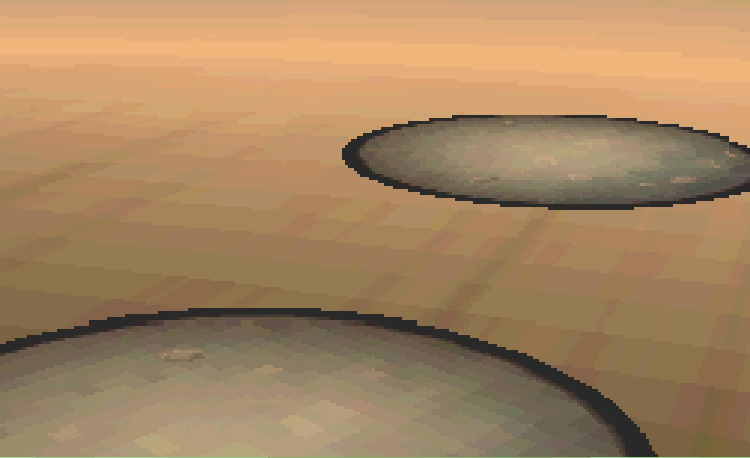
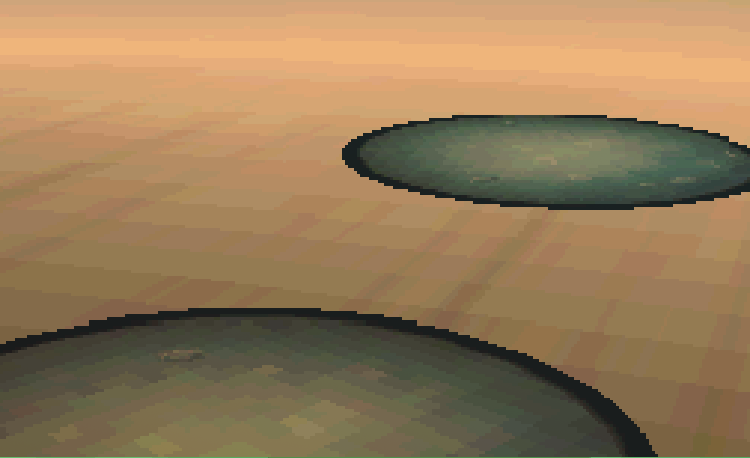
Character positions, context-specific pokemon, and dummy end screen

Changed region(s): [[0.0, 0.6725, 0.8587, 1.0], [0.46, 0.2445, 1.0, 0.4585]]

diff --git a/public/scripts/testreact.js b/public/scripts/testreact.js
@@ -28,21 +28,45 @@ var Map = React.createClass({
       this.props.changeState();
     }
     else if(event.key == "w"){
-      if(y!=0 && this.returnTile(x,y-1) != 'blue' && this.returnTile(x,y-1) != 'royalblue'){this.props.setY(y-1);}
+      this.props.setPosition("up");
+      if(y!=0 && this.returnTile(x,y-1) != 'blue' && this.returnTile(x,y-1) != 'royalblue'){
+        this.props.changeTile(this.returnTile(x, y-1));
+        this.props.setNearOcean(this.nearOcean(x, y-1));
+        this.props.setY(y-1);
+      }
     }
     else if(event.key == "s"){
-      if(y!=17 && this.returnTile(x,y+1) != 'blue' && this.returnTile(x,y+1) != 'royalblue'){this.props.setY(y+1);}
+      this.props.setPosition("down");
+      if(y!=17 && this.returnTile(x,y+1) != 'blue' && this.returnTile(x,y+1) != 'royalblue'){
+        this.props.changeTile(this.returnTile(x, y+1));
+        this.props.setNearOcean(this.nearOcean(x, y+1));
+        this.props.setY(y+1);
+      }
     }
     else if(event.key == "a"){
-      if(x!=0 && this.returnTile(x-1,y) != 'blue' && this.returnTile(x-1,y) != 'royalblue'){this.props.setX(x-1);}
+      this.props.setPosition("left");
+      if(x!=0 && this.returnTile(x-1,y) != 'blue' && this.returnTile(x-1,y) != 'royalblue'){
+        this.props.changeTile(this.returnTile(x-1,y));
+        this.props.setNearOcean(this.nearOcean(x-1,y));
+        this.props.setX(x-1);
+      }
     }
     else if(event.key == "d"){
-      if(x!=23 && this.returnTile(x+1,y) != 'blue' && this.returnTile(x+1,y) != 'royalblue'){this.props.setX(x+1);}
+      this.props.setPosition("right");
+      if(x!=23 && this.returnTile(x+1,y) != 'blue' && this.returnTile(x+1,y) != 'royalblue'){
+        this.props.changeTile(this.returnTile(x+1,y));
+        this.props.setNearOcean(this.nearOcean(x+1,y));
+        this.props.setX(x+1);
+      }
     }
   },
 
   componentDidMount(){
     this.refs.toHaveFocus.focus();
+  },
+
+  redname: function() {
+    return "pictures/red" + this.props.getPosition() + ".png";
   },
 
   render: function() {
@@ -53,9 +77,8 @@ var Map = React.createClass({
       var columns = [];
       for(var j=0; j < this.width; j++) {
         var classstring = "row" + i + " column" + j;
-        var classcolor = "";
         if(this.props.getY()==i && this.props.getX()==j) {
-          columns.push(<td className={classstring} style={{backgroundColor:this.returnTile(j, i)}}><img src="pictures/redow.png"/></td>);
+          columns.push(<td className={classstring} style={{backgroundColor:this.returnTile(j, i)}}><img src={this.redname()}/></td>);
         }
         else {
           columns.push(<td className={classstring} style={{backgroundColor:this.returnTile(j, i)}}></td>);
@@ -92,9 +115,9 @@ var Map = React.createClass({
 
   nearOcean: function(x, y) {
     if (x>=3 && x<=10 || x>6 && (x+15-y) < 2 || y > this.height-6 && x >= 2 && x < (Math.round(this.width/3)*2 + y - Math.round(this.width/2)) + 5) {
-      return true;
+      return 1;
     }
-    return false;
+    return 0;
   }
 
 });
@@ -110,7 +133,8 @@ var BattleBoy = React.createClass({
 
   componentWillMount: function() {
     const a = this;
-    axios.get('/api/generate').then(function(value){
+    var apicall = '/api/generate/' + this.props.getTile() + '/' + this.props.getNearOcean();
+    axios.get(apicall).then(function(value){
       a.setState({
         pokemon: value.data.name,
         rarity: value.data.rarity
@@ -133,7 +157,8 @@ var BattleBoy = React.createClass({
   },
 
   render: function() {
-    return(<table className="game" style={{backgroundImage:'url(pictures/backgroundboy.png)'}}>
+    var backgroundstring = 'url(pictures/' + this.props.getTile() + ".png)"
+    return(<table className="game" style={{backgroundImage:backgroundstring}}>
       <tr>
         <td>
         </td>
@@ -168,14 +193,44 @@ var BattleBoy = React.createClass({
   }
 });
 
+var GameOver = React.createClass({
+  render: function() {
+    return (
+      <div className="gameover">
+        GAME!
+      </div>
+    );
+  }
+});
+
 var GameScreen = React.createClass({
   getDefaultProps: function() {
     return({
       "score": 0,
       "turns": 10,
       "xloc": 10,
-      "yloc": 10
+      "yloc": 10,
+      "tile": "darkgreen",
+      "nearocean": 1,
+      "position": "down"
     });
+  },
+
+  setPosition: function(newposition) {
+    this.props.position = newposition;
+    this.forceUpdate();
+  },
+
+  getPosition: function() {
+    return this.props.position;
+  },
+
+  setNearOcean: function(yesorno) {
+    this.props.nearocean = yesorno;
+  },
+
+  getNearOcean: function() {
+    return this.props.nearocean;
   },
 
   setX: function(newX) {
@@ -206,6 +261,14 @@ var GameScreen = React.createClass({
     })
   },
 
+  changeTile: function(color){
+    this.props.tile = color;
+  },
+
+  getTile: function() {
+    return this.props.tile;
+  },
+
   updateTurns: function() {
     this.props.turns -= 1;
     if (this.props.turns < 0) {
@@ -226,21 +289,21 @@ var GameScreen = React.createClass({
     if (this.state.gameState == 0){
       message = (
         <div className="col-xs-9 game-item">
-          <BattleBoy updateScore={this.updateScore} updateTurns={this.updateTurns} changeState={this.changeState} />
+          <BattleBoy updateScore={this.updateScore} updateTurns={this.updateTurns} changeState={this.changeState} getTile={this.getTile} getNearOcean={this.getNearOcean}/>
         </div>
       )
     }
     else if (this.state.gameState == 1){
       message = (
         <div className="col-xs-9 game-item">
-          <Map changeState={this.changeState} getX={this.getX} getY={this.getY} setX={this.setX} setY={this.setY}/>
+          <Map changeState={this.changeState} getX={this.getX} getY={this.getY} setX={this.setX} setY={this.setY} changeTile={this.changeTile} setNearOcean={this.setNearOcean} setPosition={this.setPosition} getPosition={this.getPosition}/>
         </div>
       )
     }
     else {
       message = (
         <div className="col-xs-9 game-item">
-          <Map />
+          <GameOver />
         </div>
       )
     }

diff --git a/routing/routes.js b/routing/routes.js
@@ -2,40 +2,68 @@ var express = require('express');
 var router = express.Router();
 var MongoClient = require('mongodb').MongoClient;
 var myCollection;
-var pokemonmap = {
-	0: {name:"bulbasaur",rarity:30},
-	1: {name:"charmander",rarity:30},
-	2: {name:"squirtle",rarity:30},
-	3: {name:"caterpie",rarity:10},
-	4: {name:"pikachu",rarity:30},
-	5: {name:"abra",rarity:50},
-	6: {name:"bidoof",rarity:10},
-	7: {name:"bronzor",rarity:80},
-	8: {name:"dratini",rarity:80},
-	9: {name:"foongus",rarity:20},
-	10: {name:"gastly",rarity:50},
-	11: {name:"gible",rarity:60},
-	12: {name:"heracross",rarity:70},
-	13: {name:"houndour",rarity:40},
-	14: {name:"mawile",rarity:50},
-	15: {name:"natu",rarity:40},
-	16: {name:"rotom",rarity:80},
-	17: {name:"sandile",rarity:30},
-	18: {name:"scraggy",rarity:30},
-	19: {name:"shuckle",rarity:60},
-	20: {name:"snover",rarity:70},
-	21: {name:"wingull",rarity:10}
-};
+var map = {
+	sandybrown: {
+		0: {name:"gastly",rarity:50},
+		1: {name:"sandile",rarity:30},
+		2: {name:"scraggy",rarity:30},
+		3: {name:"shuckle",rarity:60},
+		4: {name:"rattata",rarity:10},
+		length: 5
+	},
+	darkgreen: {
+		0: {name:"bulbasaur",rarity:30},
+		1: {name:"caterpie",rarity:10},
+		2: {name:"foongus",rarity:30},
+		3: {name:"heracross",rarity:70},
+		length: 4
+	},
+	green: {
+		0: {name:"abra",rarity:50},
+		1: {name:"bidoof",rarity:10},
+		2: {name:"dratini",rarity:80},
+		3: {name:"houndour",rarity:40},
+		4: {name:"pikachu",rarity:30},
+		length: 5
+	},
+	darkslategray: {
+		0: {name:"abra",rarity:50},
+		1: {name:"dratini",rarity:80},
+		2: {name:"gastly",rarity:50},
+		3: {name:"natu",rarity:40},
+		4: {name:"scraggy",rarity:30},
+		5: {name:"squirtle",rarity:30},
+		length: 6
+	},
+	saddlebrown: {
+		0: {name:"bronzor",rarity:80},
+		1: {name:"charmander",rarity:30},
+		2: {name:"gible",rarity:60},
+		3: {name:"mawile",rarity:50},
+		4: {name:"snover",rarity:70},
+		5: {name:"zubat",rarity:10},
+		length: 6
+	},
+	ocean: {
+		0: {name:"wingull",rarity:30},
+		length: 1
+	}
+}
 
 router.get('/', function(req, res){
 	res.send('Welcome to the Safari Zone API!');
 });
 
-router.get('/generate', function(req, res){
+router.get('/generate/:tile/:nearocean', function(req, res){
   //Currently generates a random number between 0 and 9
-  //Will need a lookup table to find which Pokemon this is
-  var rand = Math.floor(Math.random()*22);
-  res.json(pokemonmap[rand]);
+  //Will need a lookup table to find which Pokemon this i
+  var rand = Math.floor(Math.random()*(map[req.params.tile]['length']+map['ocean']['length']*req.params.nearocean));
+	if (req.params.nearocean==1 && rand >= map[req.params.tile]['length']) {
+		res.json(map['ocean'][rand-map[req.params.tile]['length']]);
+	}
+	else {
+  	res.json(map[req.params.tile][rand]);
+	}
 });
 
 router.get('/players', function(req, res){

diff --git a/public/stylesheets/gamestyle.css b/public/stylesheets/gamestyle.css
@@ -48,7 +48,14 @@ table.bird tr td{
   height: 31px;
   width: 31px;
 }
-
+div.gameover{
+  width: 750px;
+  height: 580px;
+  text-align: center;
+  font-weight: bold;
+  font-size: 30px;
+  vertical-align:middle;
+}
 img {
   image-rendering: pixelated;
 }
